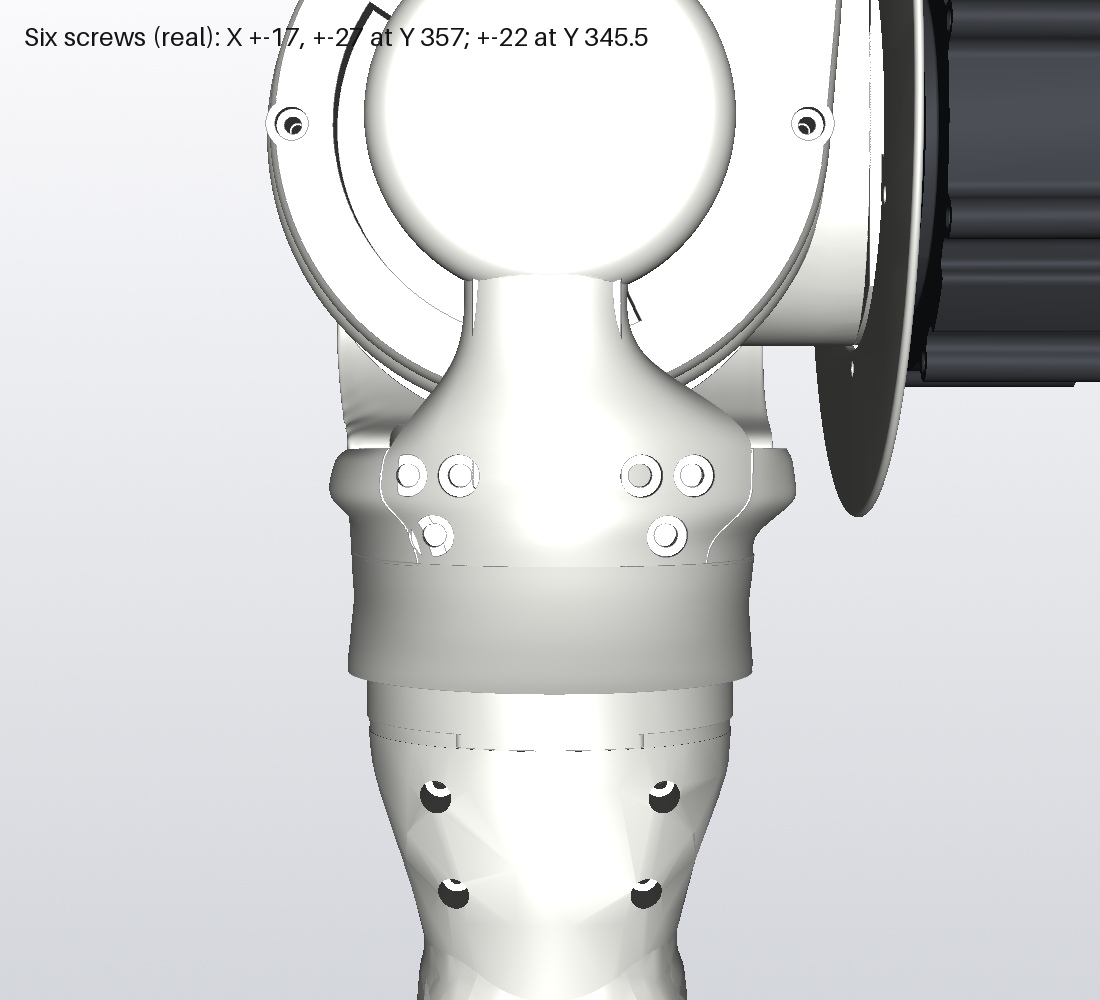
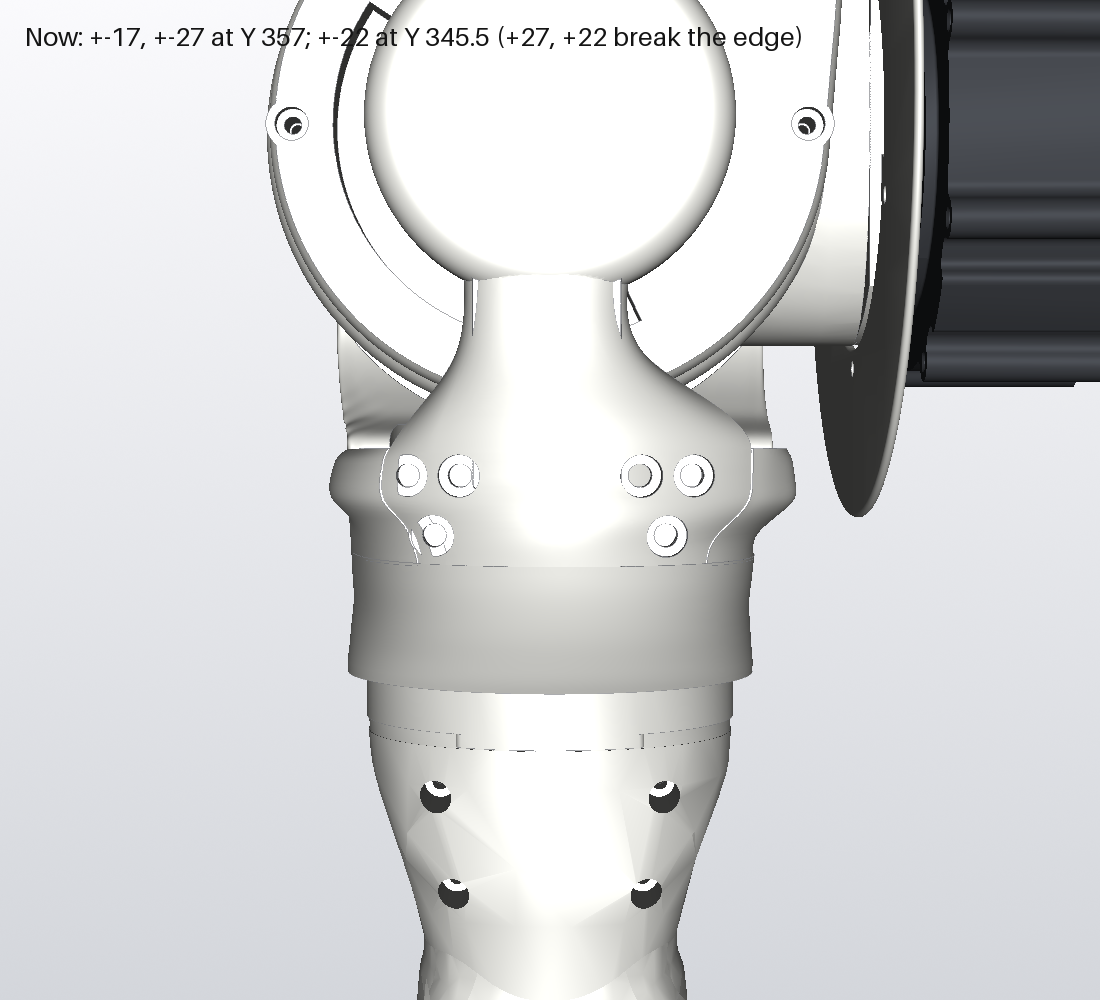
Shoulder rear screws: layout G (all counterbores closed) and G with flush caps, pictures

Changed region(s): [[0.0309, 0.031, 0.7418, 0.062]]

diff --git a/hardware/shoulder/study-20261111/cad-pass1/scripts/render_rear_screws.py b/hardware/shoulder/study-20261111/cad-pass1/scripts/render_rear_screws.py
@@ -12,7 +12,9 @@ from dims import *
 
 OUT = Path(sys.argv[1]); OUT.mkdir(parents=True, exist_ok=True)
 W = R.REPO / 'cad' / '_wip' / 'shoulder-pass1'
-VAR = {'two': ('Two screws (X +-17)', W / 'stl_look_rs2' / 'fork_rear.stl'), 'six': ('Six screws (real): X +-17, +-27 at Y 357; +-22 at Y 345.5', W / 'stl' / 'fork_rear.stl')}
+VAR = {'six': ('Now: +-17, +-27 at Y 357; +-22 at Y 345.5 (+27, +22 break the edge)', W / 'stl' / 'fork_rear.stl'),
+       'G': ('(a) G: +-12, +-24 at Y 357; +-20 at Y 345.5, all closed', W / 'stl_look_rsG' / 'fork_rear.stl'),
+       'Gc': ('(b) G with flush printed caps (shut circles only)', W / 'stl_look_rsGc' / 'fork_rear.stl')}
 Fb = np.array([RX, 352.0, -40.0])
 VIEWS = [('back', Fb + np.array([0.0, 10.0, -420.0]), Fb, 26), ('back34', Fb + np.array([300.0, 60.0, -380.0]), Fb, 26)]
 for v, (title, path) in VAR.items():
@@ -22,7 +24,7 @@ for v, (title, path) in VAR.items():
     for vn, eye, foc, ang in VIEWS:
         R.render(it, OUT / f'{v}_{vn}.png', eye, foc, size=(1100, 1000), angle=ang, title=title)
 CW, CH = 1000, 910
-sheet = Image.new('RGB', (2 * CW, CH * len(VIEWS)), 'white')
+sheet = Image.new('RGB', (len(VAR) * CW, CH * len(VIEWS)), 'white')
 for j, (vn, *_) in enumerate(VIEWS):
     for i, v in enumerate(VAR):
         im = Image.open(OUT / f'{v}_{vn}.png').convert('RGB'); k = min(CW / im.width, CH / im.height)
